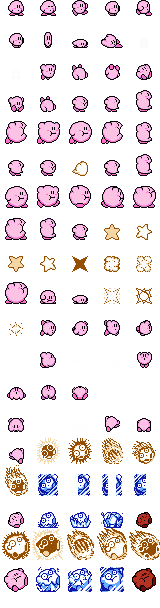
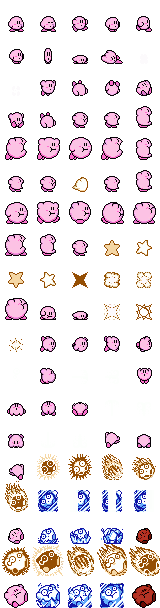
최예나 : 이미지 교체 및 슬라이드 1차

diff --git a/WinAPI_Portfolio/ContentsProject/Player.h b/WinAPI_Portfolio/ContentsProject/Player.h
@@ -3,10 +3,14 @@
 #include <EngineBase/EngineMath.h>
 enum class CheckDir
 {
-	Left,
-	Right,
 	Up,
 	Down,
+	Left,
+	Right,
+	LeftUp,
+	RightUp,
+	LeftDown,
+	RightDown,
 	Max
 };
 
@@ -20,7 +24,19 @@ enum class PlayerState
 	Bend,
 	Slide,
 	Climb,
-	Swim
+	Swim,
+	Attack
+};
+
+enum class PlayerAbility
+{
+	Common,
+	HaveBullet,
+	Beam,
+	Cutter,
+	Fire,
+	Spark,
+	Sword
 };
 
 class APlayer : public AActor
@@ -97,8 +113,11 @@ private:
 	void Idle(float _DeltaTime);
 	void Move(float _DeltaTime);
 	void Dash(float _DeltaTime);
-	void Fly(float _DeltaTime);
+	void FlyStart(float _DeltaTime);
+	void Flying(float _DeltaTime);
+	void FlyEnd(float _DeltaTime);
 	void Jump(float _DeltaTime);
 	void Bend(float _DeltaTime);
+	void Slide(float _DeltaTime);
 };
 

diff --git a/WinAPI_Portfolio/ContentsProject/Stage101GameMode.cpp b/WinAPI_Portfolio/ContentsProject/Stage101GameMode.cpp
@@ -29,7 +29,7 @@ void AStage101GameMode::BeginPlay()
 
 	APlayer* Player = dynamic_cast<APlayer*>(GetWorld()->GetPawn());
 	Player->GetBackImage("Stage101.png", "ColStage101.png");
-	Player->SetActorLocation({ 100, 395 });
+	Player->SetActorLocation({ 100, 350 });
 
 	NewUI = GetWorld()->SpawnActor<AHUI>();
 	NewUI->SetSprite("StageUI.png", "Lives.png");
